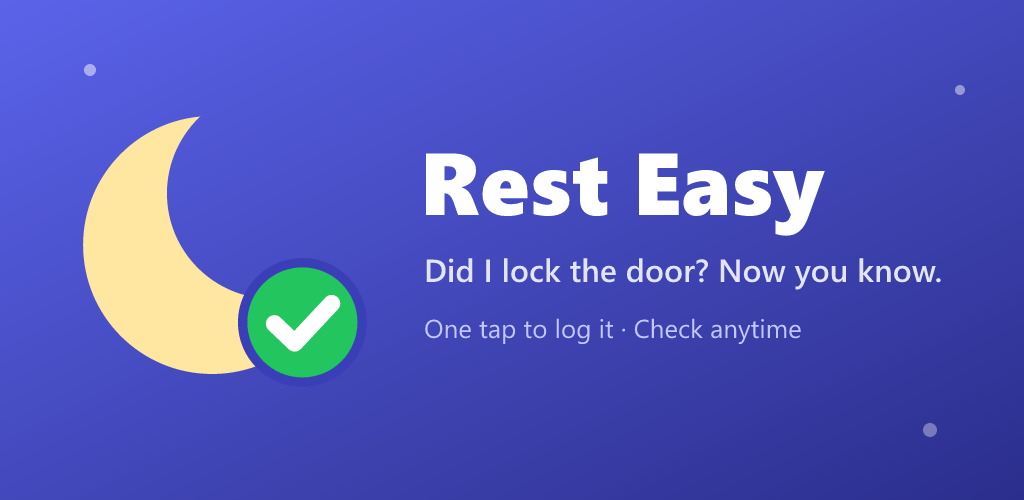
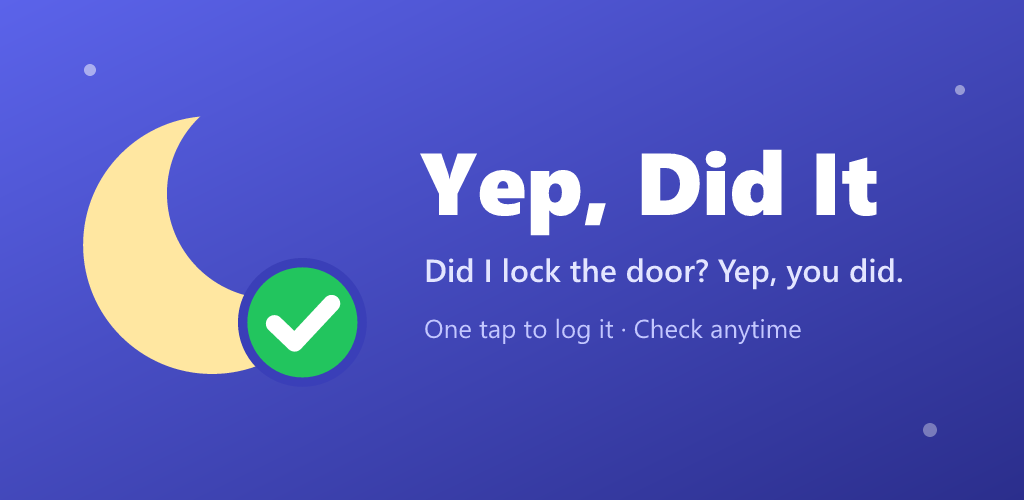
Rename app to "Yep, Did It"
- App name, Play title ("Yep, Did It: Did I Lock It?") and in-app copy
- Package ID com.suryanshu.yepdidit, slug yep-did-it, scheme yepdidit
- Feature graphic, store listing, privacy policy, site and guide updated

Changed region(s): [[0.625, 0.3, 0.875, 0.48], [0.4062, 0.3, 0.5938, 0.48], [0.6875, 0.51, 0.9375, 0.6]]

diff --git a/docs/privacy-policy.html b/docs/privacy-policy.html
@@ -3,7 +3,7 @@
 <head>
 <meta charset="utf-8">
 <meta name="viewport" content="width=device-width, initial-scale=1">
-<title>Rest Easy – Privacy Policy</title>
+<title>Yep, Did It – Privacy Policy</title>
 <style>
   body { font-family: system-ui, -apple-system, Segoe UI, Roboto, sans-serif; max-width: 720px; margin: 0 auto; padding: 24px 16px 64px; line-height: 1.6; color: #13141B; background: #fff; }
   h1 { font-size: 28px; margin-bottom: 4px; } h2 { font-size: 19px; margin-top: 28px; }
@@ -12,10 +12,10 @@
 </style>
 </head>
 <body>
-<h1>Privacy Policy – Rest Easy</h1>
-<p class="muted">Last updated: 11 November 2026</p>
+<h1>Privacy Policy – Yep, Did It</h1>
+<p class="muted">Last updated: 12 November 2026</p>
 
-<p>Rest Easy ("the app") is developed by Suryanshu Verma ("we", "us"). This policy explains what information the app handles.</p>
+<p>The app "Yep, Did It" ("the app") is developed by Suryanshu Verma ("we", "us"). This policy explains what information the app handles.</p>
 
 <h2>1. Data you enter stays on your device</h2>
 <p>The checks you create (for example "Locked the door"), the times you log them, your reminder times and your settings are stored only on your phone. We have no servers and no accounts. We never receive, see or sell this data. Uninstalling the app deletes it.</p>

diff --git a/docs/index.html b/docs/index.html
@@ -3,7 +3,7 @@
 <head>
 <meta charset="utf-8">
 <meta name="viewport" content="width=device-width, initial-scale=1">
-<title>Rest Easy – Did I lock the door?</title>
+<title>Yep, Did It – Did I lock the door?</title>
 <style>
   body { font-family: system-ui, -apple-system, Segoe UI, Roboto, sans-serif; max-width: 640px; margin: 0 auto; padding: 48px 16px; line-height: 1.6; color: #13141B; background: #F5F6FA; text-align: center; }
   h1 { font-size: 40px; margin: 0; } p { color: #686C7E; } a { color: #4B54D1; font-weight: 600; }
@@ -11,9 +11,9 @@
 </style>
 </head>
 <body>
-<h1>Rest Easy</h1>
+<h1>Yep, Did It</h1>
 <p>Did I lock the door? Turn off the stove? Take my pill?<br>Tap once when you do it. Check anytime. Stop second-guessing.</p>
-<p><a href="https://play.google.com/store/apps/details?id=com.suryanshu.resteasy">Get it on Google Play</a></p>
+<p><a href="https://play.google.com/store/apps/details?id=com.suryanshu.yepdidit">Get it on Google Play</a></p>
 <p><a href="privacy-policy.html">Privacy policy</a> · <a href="mailto:suryanshuverma42@gmail.com">Contact</a></p>
 </body>
 </html>

diff --git a/constants/config.ts b/constants/config.ts
@@ -2,8 +2,8 @@
  * Everything you need to change before publishing lives in this file and in app.json.
  */
 
-export const APP_NAME = 'Rest Easy';
-export const ANDROID_PACKAGE = 'com.suryanshu.resteasy';
+export const APP_NAME = 'Yep, Did It';
+export const ANDROID_PACKAGE = 'com.suryanshu.yepdidit';
 export const PLAY_STORE_URL = `https://play.google.com/store/apps/details?id=${ANDROID_PACKAGE}`;
 
 // Hosted for free on GitHub Pages from this repo's /docs folder (see DEPLOYMENT_GUIDE.md, Part 3).
@@ -13,7 +13,7 @@ export const PRIVACY_POLICY_URL = `${DEVELOPER_SITE}/privacy-policy.html`;
 export const SUPPORT_EMAIL = 'suryanshuverma42@gmail.com';
 
 /**
- * AdMob ad unit IDs (from https://admob.google.com → Apps → Rest Easy → Ad units).
+ * AdMob ad unit IDs (from https://admob.google.com → Apps → Yep, Did It → Ad units).
  * While these still contain "xxxx", the app automatically uses Google's test ads,
  * so you can never accidentally click your own live ads during development.
  */

diff --git a/app/(tabs)/settings.tsx b/app/(tabs)/settings.tsx
@@ -61,7 +61,7 @@ export default function SettingsScreen() {
 
   const share = () =>
     Share.share({
-      message: `I use ${APP_NAME} to stop worrying "did I lock the door?" Tap once, check anytime. ${PLAY_STORE_URL}`,
+      message: `Always wondering "did I lock the door?" ${APP_NAME} answers it: tap once, check anytime. ${PLAY_STORE_URL}`,
     }).catch(() => {});
 
   const feedback = () =>
@@ -106,7 +106,7 @@ export default function SettingsScreen() {
 
         <Text style={[styles.section, { color: p.textMuted }]}>Support</Text>
         <View style={[styles.card, { backgroundColor: p.surface, borderColor: p.border }]}>
-          <Row icon="star-outline" label={`Rate ${APP_NAME}`} onPress={rate} />
+          <Row icon="star-outline" label="Rate us on Google Play" onPress={rate} />
           <Row icon="share-variant-outline" label="Share with a friend" onPress={share} />
           <Row icon="email-outline" label="Send feedback" onPress={feedback} last />
         </View>

diff --git a/app/action-editor.tsx b/app/action-editor.tsx
@@ -56,7 +56,7 @@ export default function ActionEditor() {
       if (!granted) {
         Alert.alert(
           'Notifications are off',
-          'To get reminders, allow notifications for Rest Easy in your phone settings.',
+          'To get reminders, allow notifications for "Yep, Did It" in your phone settings.',
           [
             { text: 'Not now', style: 'cancel' },
             { text: 'Open settings', onPress: () => Linking.openSettings() },

diff --git a/app/(tabs)/index.tsx b/app/(tabs)/index.tsx
@@ -65,7 +65,7 @@ export default function TodayScreen() {
         {actions.length > 0 && (
           <Text style={[styles.summary, { color: doneCount === actions.length ? p.success : p.textMuted }]}>
             {doneCount === actions.length
-              ? 'All checked today. Rest easy.'
+              ? 'All checked today. Yep, you did it!'
               : `${doneCount} of ${actions.length} checked today`}
           </Text>
         )}

diff --git a/lib/notifications.ts b/lib/notifications.ts
@@ -46,7 +46,7 @@ export async function syncReminder(action: Action): Promise<string | undefined> 
   return Notifications.scheduleNotificationAsync({
     content: {
       title: `Did you check: ${action.title}?`,
-      body: 'Tap to log it, then rest easy.',
+      body: 'Done it? Tap to check it off.',
     },
     trigger: {
       type: Notifications.SchedulableTriggerInputTypes.DAILY,

diff --git a/lib/store.tsx b/lib/store.tsx
@@ -21,7 +21,7 @@ export type Settings = { keepDays: number };
 
 type Data = { actions: Action[]; logs: Log[]; settings: Settings };
 
-const STORAGE_KEY = 'resteasy:data:v1';
+const STORAGE_KEY = 'yepdidit:data:v1';
 const MAX_LOGS = 5000;
 
 const OFF: Reminder = { enabled: false, hour: 22, minute: 0 };

diff --git a/DEPLOYMENT_GUIDE.md b/DEPLOYMENT_GUIDE.md
@@ -1,6 +1,6 @@
-# Rest Easy: complete guide from code to Google Play earnings
+# Yep, Did It: complete guide from code to Google Play earnings
 
-**Project:** Rest Easy: Did I Lock It? · **Package:** `com.suryanshu.resteasy` · **Expo SDK 58** (React Native 0.88, targets Android API 36)
+**Project:** Yep, Did It: Did I Lock It? · **Package:** `com.suryanshu.yepdidit` · **Expo SDK 58** (React Native 0.88, targets Android API 36)
 
 Work through the parts **in order**. Each step says what to click or type and what you should see afterwards. The ⏱ steps involve waiting, so start them as early as you can.
 
@@ -74,7 +74,7 @@ npm install
 1. Left menu: **Apps → Add app**.
 2. Platform: **Android**.
 3. "Is the app listed on a supported app store?" → **No** (it isn't on Play yet; you'll link it later).
-4. App name: **Rest Easy**.
+4. App name: **Yep, Did It**.
 5. "User metrics": leave enabled → **Add app**.
 6. You'll see your **App ID**. Copy it into Notepad. It looks like:
    ```
@@ -83,7 +83,7 @@ npm install
    Note the **tilde `~`**. That marks it as the *App ID*.
 
 ### 2.3 Create the banner ad unit
-1. Click **Add ad unit** (or Apps → Rest Easy → Ad units → Add ad unit).
+1. Click **Add ad unit** (or Apps → Yep, Did It → Ad units → Add ad unit).
 2. Choose **Banner**.
 3. Name: `Banner - all screens` → **Create ad unit**.
 4. Copy the **ad unit ID**. It looks like:
@@ -102,12 +102,12 @@ npm install
 Without this, users in Europe and the UK can't see any ads, so you'd earn nothing there.
 1. Left menu: **Privacy & messaging**.
 2. Under **European regulations** → **Create message**.
-3. Apps: select **Rest Easy**.
+3. Apps: select **Yep, Did It**.
 4. Languages: English (add others if you want).
 5. **Privacy policy URL:** `https://suryanshuverma0.github.io/Did-I-Daily-Action-Tracker/privacy-policy.html` (you'll create this page in Part 3).
 6. Leave the default user choices ("Consent" and "Manage options") as they are.
 7. Click **Publish**.
-8. Optional but recommended: also go to **US state regulations → Create message**, select Rest Easy, and **Publish**.
+8. Optional but recommended: also go to **US state regulations → Create message**, select **Yep, Did It**, and **Publish**.
 
 The app already contains the code that shows this message (Google UMP) and the **Settings → Ad privacy choices** button that Google requires.
 
@@ -207,7 +207,7 @@ Enter your Expo email or username and password. ✅ `Logged in as <username>`.
 ```powershell
 eas init
 ```
-- "Would you like to create a project for @username/rest-easy?" → **Y**
+- "Would you like to create a project for @username/yep-did-it?" → **Y**
 
 ✅ It writes a `projectId` into `app.json` under `extra.eas`. Don't delete it.
 
@@ -234,7 +234,7 @@ The build uploads your code and queues it in the cloud. Free accounts sometimes 
 1. When the build finishes, open the build page on your **phone's browser** (or scan the QR code shown in PowerShell).
 2. Tap **Install** to download the `.apk`.
 3. Android will ask to **allow installs from this source** (Chrome). Allow it.
-4. Open **Rest Easy**.
+4. Open **Yep, Did It**.
 
 ### 5.3 Test checklist
 Go through every item:
@@ -312,7 +312,7 @@ Open **https://play.google.com/console**.
 Click **Create app** and fill in:
 | Field | Value |
 |---|---|
-| App name | `Rest Easy: Did I Lock It?` |
+| App name | `Yep, Did It: Did I Lock It?` |
 | Default language | English (United States) – en-US |
 | App or game | **App** |
 | Free or paid | **Free** (⚠ a free app can never be changed to paid later) |
@@ -397,7 +397,7 @@ Left menu → **Grow users → Store presence → Store listings → Default sto
 Copy-paste from **`STORE_LISTING.md`**:
 | Field | Value |
 |---|---|
-| App name | `Rest Easy: Did I Lock It?` |
+| App name | `Yep, Did It: Did I Lock It?` |
 | Short description | the 78-character line |
 | Full description | the full text block |
 | App icon | upload `store-assets\play-icon-512.png` |
@@ -435,7 +435,7 @@ You need **12 minimum; invite 15–20**, because some people forget or uninstall
 2. Use the default track **"Closed testing - Alpha"** → **Manage track**.
 3. **Countries/regions** tab → **Add countries/regions** → select all (or at least the countries your testers are in) → Save.
 4. **Testers** tab → **Create email list**:
-   - List name: `Rest Easy testers`
+   - List name: `Yep, Did It testers`
    - Paste all the Gmail addresses, comma-separated → Enter → **Save changes**
    - Tick the list → **Save**.
    - Feedback URL or email: your email.
@@ -448,7 +448,7 @@ You need **12 minimum; invite 15–20**, because some people forget or uninstall
 5. Release notes:
    ```
    <en-US>
-   First test version of Rest Easy. Please try adding checks, logging them and turning on a reminder. Send feedback from Settings → Send feedback.
+   First test version of "Yep, Did It". Please try adding checks, logging them and turning on a reminder. Send feedback from Settings → Send feedback.
    </en-US>
    ```
 6. **Next → Save → Go to overview → Send changes for review** (on the "Publishing overview" page).
@@ -463,7 +463,7 @@ The first review usually takes **a few hours to 3 days**. You'll get an email. P
    > Hi! I've made my first Android app and Google requires 14 days of testing before launch. Could you help?
    > 1. Open this link on your Android phone (signed in with this Gmail): <LINK>
    > 2. Tap **Become a tester**
-   > 3. Tap **Download it on Google Play** and install **Rest Easy**
+   > 3. Tap **Download it on Google Play** and install **Yep, Did It**
    > 4. Please **keep it installed for 14 days** and open it every few days 🙏
    > Thank you!
 
@@ -508,12 +508,12 @@ When the Dashboard shows that the **14-day requirement is met**:
 5. Release notes:
    ```
    <en-US>
-   Welcome to Rest Easy! Tap once when you lock the door, turn off the stove or take your pill — and check anytime. Stop second-guessing.
+   Welcome to Yep, Did It! Tap once when you lock the door, turn off the stove or take your pill — and check anytime. Stop second-guessing.
    </en-US>
    ```
 6. **Next → Save → Publishing overview → Send changes for review**.
 7. Review usually takes **1–7 days**. Once you get the "Your update is live" email, the app is public at:
-   `https://play.google.com/store/apps/details?id=com.suryanshu.resteasy`
+   `https://play.google.com/store/apps/details?id=com.suryanshu.yepdidit`
 
 Search may take a few days to show the app. The direct link works immediately.
 
@@ -522,13 +522,13 @@ Search may take a few days to show the app. The direct link works immediately.
 # PART 12: After launch: connect AdMob and get paid
 
 ### 12.1 Link AdMob to the Play listing (important: unlinked apps get limited ads)
-1. AdMob → **Apps → View all apps → Rest Easy → App settings**.
-2. **App store details → Add** → search `Rest Easy` or `com.suryanshu.resteasy` → select it → Add.
+1. AdMob → **Apps → View all apps → Yep, Did It → App settings**.
+2. **App store details → Add** → search `Yep, Did It` or `com.suryanshu.yepdidit` → select it → Add.
 3. AdMob then reviews the app (*"App review: Getting ready"* → *"Ready"*), which takes a few days. Until then ads may be limited.
 
 ### 12.2 Verify app-ads.txt
 1. AdMob → **Apps → app-ads.txt** tab.
-2. After about 24 hours it should show **Verified ✅** for Rest Easy.
+2. After about 24 hours it should show **Verified ✅** for Yep, Did It.
 3. If it says "Not found": check that the Play listing's **Website** is set (3.3) and that `https://suryanshuverma0.github.io/app-ads.txt` opens.
 
 ### 12.3 Payments
@@ -594,11 +594,11 @@ Then build a preview APK and run the Part 5 checklist again before releasing.
 | App **crashes immediately** on launch (production build) | Wrong `androidAppId` in `app.json` (an ad *unit* ID with `/` instead of the App ID with `~`) | Use the App ID with `~`, then rebuild |
 | **No ads** show | New ad units take up to **1 hour (sometimes 24 h)** to serve; app not yet reviewed in AdMob; consent declined; no ad "fill" | Wait, check AdMob → Apps for warnings, and test on a registered test device (2.7). The app hides empty banners on purpose. |
 | Ads show "Test Ad" in the Play version | IDs in `constants/config.ts` still contain `xxxx` | Put in the real IDs (2.6) and rebuild |
-| Reminder notification never arrives | Notifications blocked, or battery saver | Phone Settings → Apps → Rest Easy → Notifications → On. Battery → Rest Easy → *Unrestricted*. |
+| Reminder notification never arrives | Notifications blocked, or battery saver | Phone Settings → Apps → Yep, Did It → Notifications → On. Battery → Yep, Did It → *Unrestricted*. |
 | Expo Go shows `'RNGoogleMobileAdsModule' could not be found` | You're on an old copy of `lib/ads.ts` | The current code skips ads in Expo Go automatically. Pull the latest code, or use a dev build (5.4) |
 | Play: "**Version code 1 has already been used**" | Uploaded an old bundle again | Run `npm run build:aab` again; EAS auto-increments the code |
 | Play: "**Your Android App Bundle is signed with the wrong key**" | The keystore changed (e.g. you deleted the EAS credentials) | Restore it from your backup (5.1), or Play Console → App integrity → *Request upload key reset* |
-| Play: "**Package name already exists**" | Someone else owns `com.suryanshu.resteasy` (unlikely) | Change `android.package` in `app.json` and `ANDROID_PACKAGE` in `constants/config.ts`, e.g. `com.suryanshu.resteasy.app` |
+| Play: "**Package name already exists**" | Someone else owns `com.suryanshu.yepdidit` (unlikely) | Change `android.package` in `app.json` and `ANDROID_PACKAGE` in `constants/config.ts`, e.g. `com.suryanshu.yepdidit.app` |
 | Play rejects for **"Missing privacy policy"** or **"Data safety mismatch"** | URL not reachable, or form answers don't match the SDKs | Check 3.4; redo 8.2 g) and compare with Google's AdMob page |
 | `eas build` says "**projectId mismatch**" or permission denied | `app.json` linked to another account's project | Delete `extra.eas.projectId` from `app.json` and run `eas init` again |
 | PowerShell: "running scripts is disabled" | Execution policy | `Set-ExecutionPolicy -Scope CurrentUser RemoteSigned` |

diff --git a/STORE_LISTING.md b/STORE_LISTING.md
@@ -1,10 +1,10 @@
-# Rest Easy: Play Store listing (copy and paste)
+# Yep, Did It: Play Store listing (copy and paste)
 
 ## App name (max 30 chars, 25 used)
 ```
-Rest Easy: Did I Lock It?
+Yep, Did It: Did I Lock It?
 ```
-"Rest easy" is an idiom for "stop worrying". "Did I lock it" is the phrase people actually type into the Play Store search.
+"Yep, Did It" answers the exact worry people have ("Did I…?" "Yep!"), so it is easy to remember and recommend. "Did I lock it" is the phrase people actually type into the Play Store search.
 
 ## Short description (max 80 chars, 78 used)
 ```
@@ -15,7 +15,7 @@ Did I lock the door? Stove off? Pill taken? Tap once and stop second-guessing.
 ```
 Did I lock the door? Did I turn off the stove? Did I already take my pill?
 
-If you've ever walked back home just to check, or lain awake wondering, Rest Easy is for you.
+If you've ever walked back home just to check, or lain awake wondering, this app is for you. One glance and you know: yep, you did it.
 
 HOW IT WORKS
 • Tap a card the moment you do it, like "Locked the door".
@@ -41,11 +41,11 @@ PERFECT FOR
 • Closing windows, unplugging appliances, watering plants
 • Anything you tend to double-check
 
-Rest Easy is a simple memory aid and log for everyday tasks. It is not a medical device.
+This app is a simple memory aid and log for everyday tasks. It is not a medical device.
 
 Questions or ideas? Write to us from Settings → Send feedback. We read every message.
 
-Tap it. Forget it. Rest easy.
+Did I lock it? Yep, you did.
 ```
 
 ## Category and tags

diff --git a/README.md b/README.md
@@ -1,4 +1,4 @@
-# Rest Easy: Did I Lock It?
+# Yep, Did It: Did I Lock It?
 
 Stop second-guessing. Tap once when you lock the door, turn off the stove or take your pill, and check any time later: *"Today at 8:42 AM · 2 h ago"*.
 
